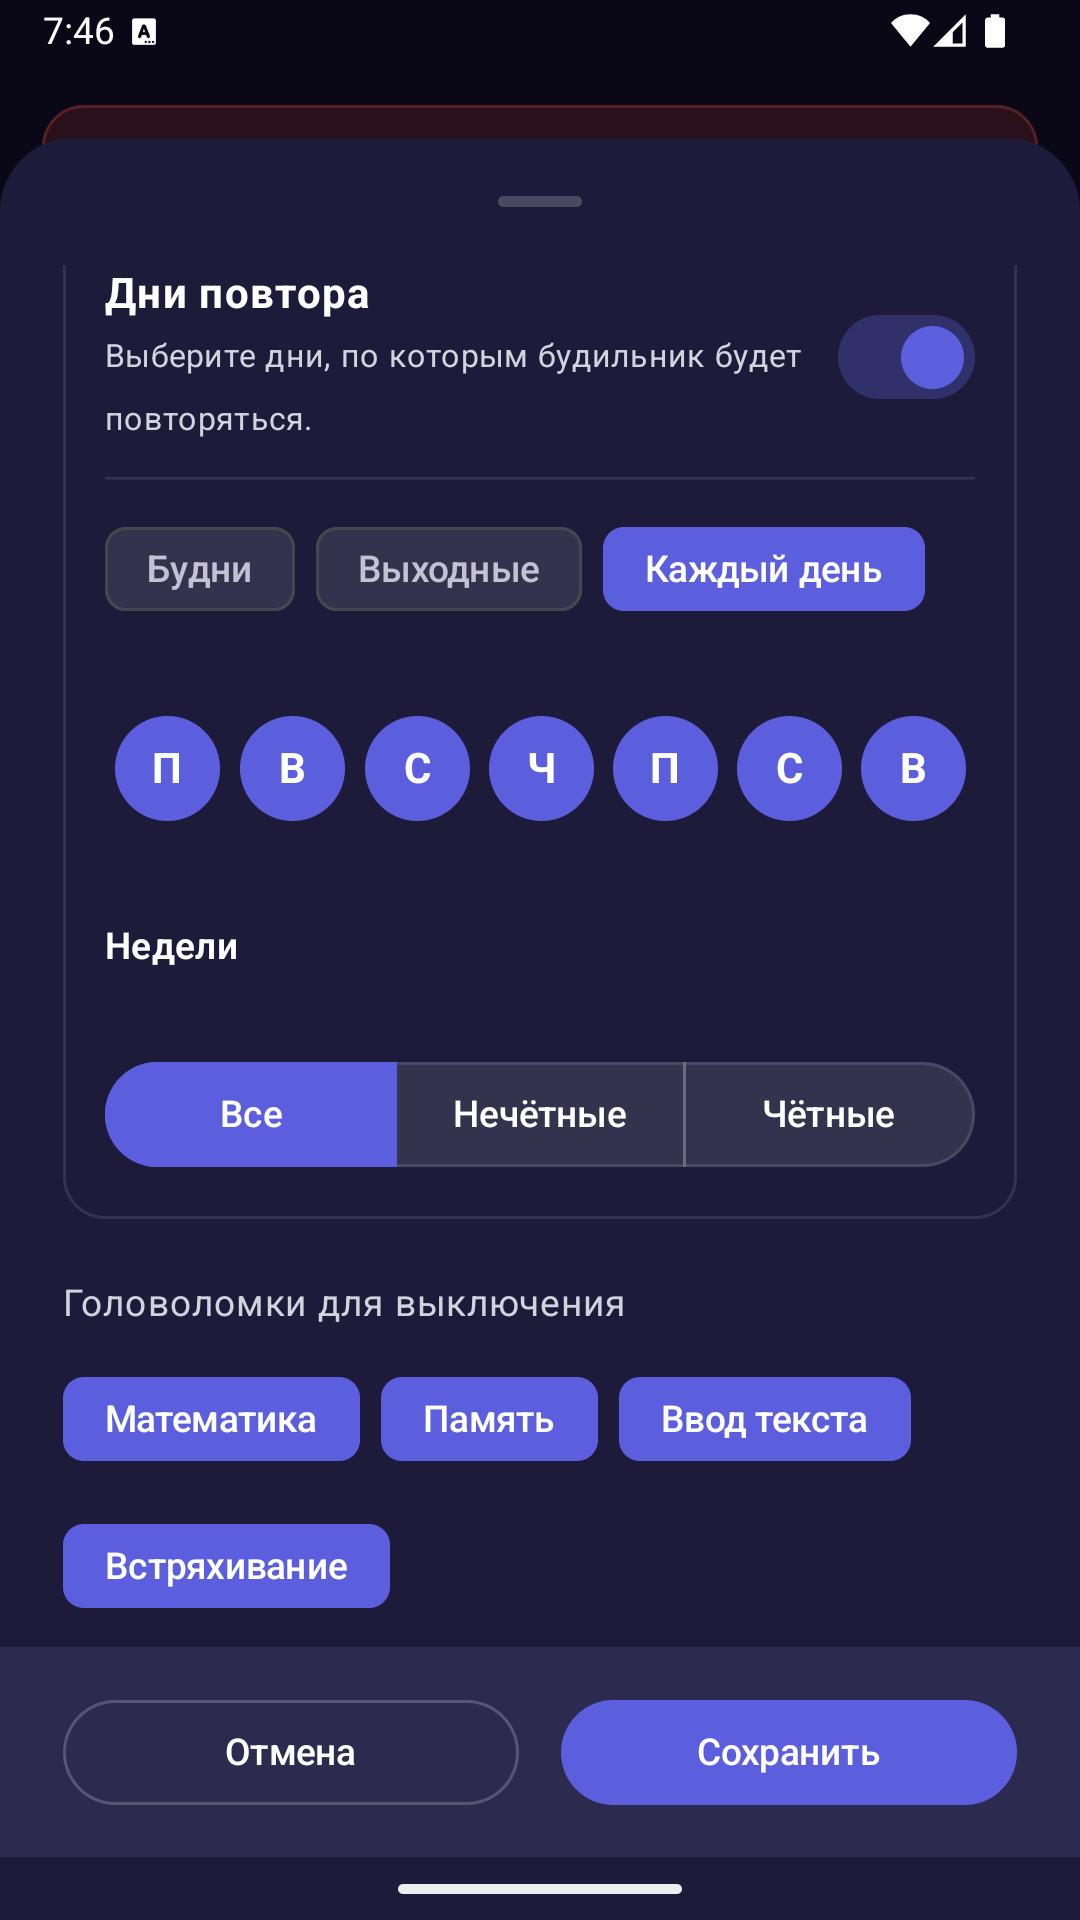
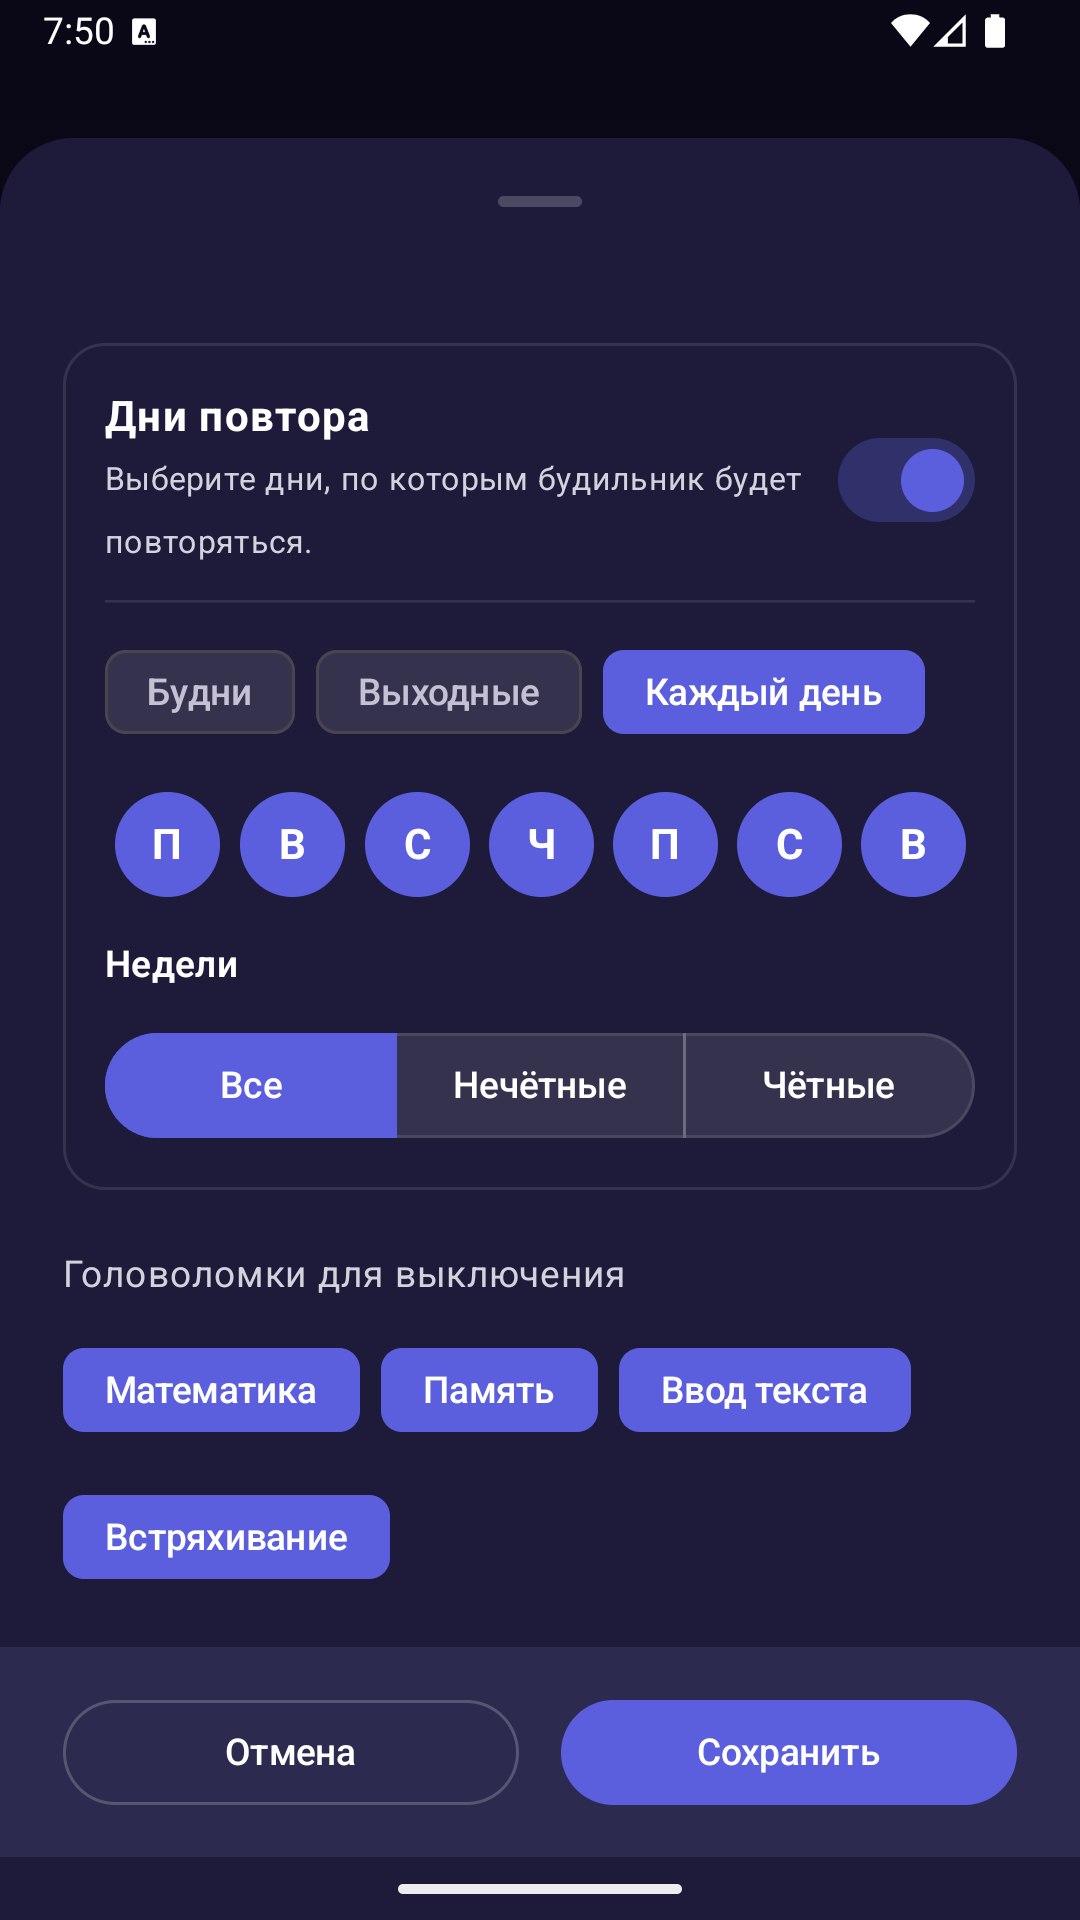
style: tighten alarm editor spacing

diff --git a/app/src/main/java/com/example/smartalarmer/ui/main/AlarmEditSheet.kt b/app/src/main/java/com/example/smartalarmer/ui/main/AlarmEditSheet.kt
@@ -269,67 +269,69 @@ fun AlarmEditSheet(
                 }
 
                 // Sound Button
-                Row(
-                    modifier =
-                    Modifier
-                        .fillMaxWidth()
-                        .clickable { onPickSound() }
-                        .border(1.dp, CardBorderGlass, RoundedCornerShape(16.dp))
-                        .padding(16.dp)
-                        .testTag(ALARM_EDITOR_SOUND_ROW_TAG),
-                    horizontalArrangement = Arrangement.SpaceBetween,
-                    verticalAlignment = Alignment.CenterVertically
-                ) {
-                    Text(
-                        text = stringResource(com.example.smartalarmer.R.string.sound_label),
-                        color = SecondaryText,
-                        fontSize = 16.sp,
-                        modifier = Modifier.weight(1f).padding(end = 12.dp)
-                    )
-                    Text(
-                        text = selectedSoundName,
-                        color = Color.White,
-                        fontSize = 16.sp,
-                        fontWeight = FontWeight.Bold,
-                        textAlign = TextAlign.End,
-                        maxLines = 2,
-                        overflow = TextOverflow.Ellipsis,
-                        modifier = Modifier.weight(1f)
-                    )
-                }
-                FlowRow(
-                    modifier = Modifier.fillMaxWidth(),
-                    horizontalArrangement = Arrangement.spacedBy(8.dp, Alignment.End),
-                    verticalArrangement = Arrangement.spacedBy(8.dp)
-                ) {
-                    TextButton(
-                        onClick = onPreviewSound,
-                        colors =
-                        ButtonDefaults.textButtonColors(
-                            contentColor = IndigoContent,
-                            disabledContentColor = DisabledControlText
-                        )
+                Column(verticalArrangement = Arrangement.spacedBy(4.dp)) {
+                    Row(
+                        modifier =
+                        Modifier
+                            .fillMaxWidth()
+                            .clickable { onPickSound() }
+                            .border(1.dp, CardBorderGlass, RoundedCornerShape(16.dp))
+                            .padding(16.dp)
+                            .testTag(ALARM_EDITOR_SOUND_ROW_TAG),
+                        horizontalArrangement = Arrangement.SpaceBetween,
+                        verticalAlignment = Alignment.CenterVertically
                     ) {
                         Text(
-                            stringResource(
-                                if (isSoundPreviewPlaying) {
-                                    com.example.smartalarmer.R.string.stop_sound_preview
-                                } else {
-                                    com.example.smartalarmer.R.string.preview_sound
-                                }
-                            )
+                            text = stringResource(com.example.smartalarmer.R.string.sound_label),
+                            color = SecondaryText,
+                            fontSize = 16.sp,
+                            modifier = Modifier.weight(1f).padding(end = 12.dp)
+                        )
+                        Text(
+                            text = selectedSoundName,
+                            color = Color.White,
+                            fontSize = 16.sp,
+                            fontWeight = FontWeight.Bold,
+                            textAlign = TextAlign.End,
+                            maxLines = 2,
+                            overflow = TextOverflow.Ellipsis,
+                            modifier = Modifier.weight(1f)
                         )
                     }
-                    TextButton(
-                        onClick = onResetSound,
-                        enabled = pickedSoundUri != null,
-                        colors =
-                        ButtonDefaults.textButtonColors(
-                            contentColor = IndigoContent,
-                            disabledContentColor = DisabledControlText
-                        )
+                    FlowRow(
+                        modifier = Modifier.fillMaxWidth(),
+                        horizontalArrangement = Arrangement.spacedBy(8.dp, Alignment.End),
+                        verticalArrangement = Arrangement.spacedBy(8.dp)
                     ) {
-                        Text(stringResource(com.example.smartalarmer.R.string.use_default_sound))
+                        TextButton(
+                            onClick = onPreviewSound,
+                            colors =
+                            ButtonDefaults.textButtonColors(
+                                contentColor = IndigoContent,
+                                disabledContentColor = DisabledControlText
+                            )
+                        ) {
+                            Text(
+                                stringResource(
+                                    if (isSoundPreviewPlaying) {
+                                        com.example.smartalarmer.R.string.stop_sound_preview
+                                    } else {
+                                        com.example.smartalarmer.R.string.preview_sound
+                                    }
+                                )
+                            )
+                        }
+                        TextButton(
+                            onClick = onResetSound,
+                            enabled = pickedSoundUri != null,
+                            colors =
+                            ButtonDefaults.textButtonColors(
+                                contentColor = IndigoContent,
+                                disabledContentColor = DisabledControlText
+                            )
+                        ) {
+                            Text(stringResource(com.example.smartalarmer.R.string.use_default_sound))
+                        }
                     }
                 }
 
@@ -413,7 +415,6 @@ fun AlarmEditSheet(
                                 )
                             }
                         }
-                        Spacer(modifier = Modifier.height(8.dp))
                         Row(
                             modifier = Modifier.fillMaxWidth().testTag(ALARM_EDITOR_DAYS_TAG),
                             horizontalArrangement = Arrangement.SpaceBetween
@@ -482,14 +483,12 @@ fun AlarmEditSheet(
                             }
                         }
                         if (selectedDays.isNotEmpty()) {
-                            Spacer(modifier = Modifier.height(12.dp))
                             Text(
                                 text = stringResource(com.example.smartalarmer.R.string.repeat_week_pattern_label),
                                 color = Color.White,
                                 fontSize = 14.sp,
                                 fontWeight = FontWeight.SemiBold
                             )
-                            Spacer(modifier = Modifier.height(8.dp))
                             SingleChoiceSegmentedButtonRow(
                                 modifier = Modifier.fillMaxWidth().testTag(ALARM_EDITOR_WEEK_PARITY_TAG)
                             ) {